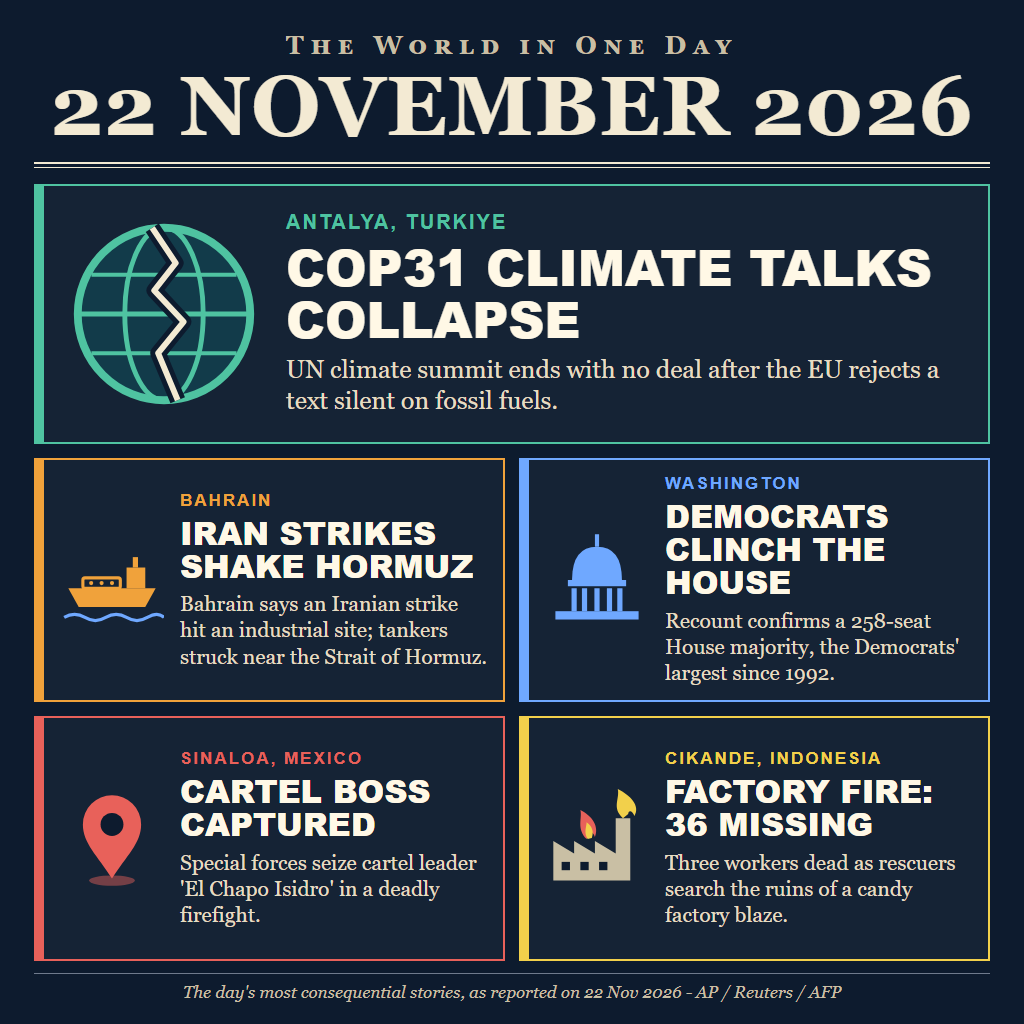
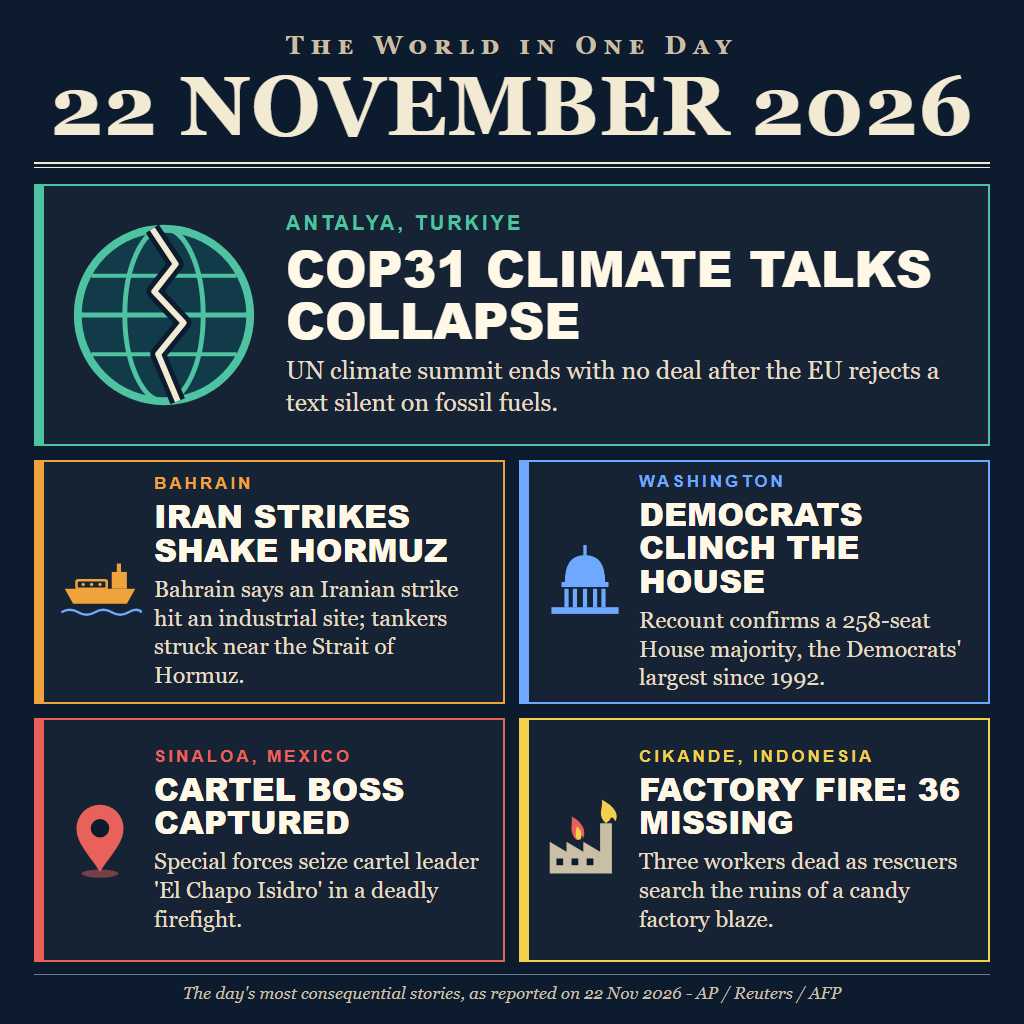
Add MIT license, legibility pass

diff --git a/image.html b/image.html
@@ -49,7 +49,7 @@
     font-family: Arial, Helvetica, sans-serif;
     font-weight: bold;
     color: var(--accent);
-    letter-spacing: 2px;
+    letter-spacing: 3px;
     text-transform: uppercase;
   }
   .headline {
@@ -59,7 +59,7 @@
     color: #fff8e6;
   }
   .line { line-height: 1.25; color: #e6dcc2; }
-  .lead { --accent: #4fc3a1; padding: 18px 22px; height: 262px; gap: 24px; }
+  .lead { --accent: #4fc3a1; padding: 18px 22px; height: 262px; flex-shrink: 0; gap: 24px; }
   .lead svg { flex: 0 0 196px; height: 196px; }
   .lead .label { font-size: 20px; }
   .lead .headline { font-size: 50px; margin: 6px 0 10px; }
@@ -72,11 +72,11 @@
     gap: 14px;
     margin-top: 14px;
   }
-  .small { padding: 14px 16px; gap: 16px; align-items: center; }
-  .small svg { flex: 0 0 104px; height: 104px; }
+  .small { padding: 10px 14px; gap: 12px; align-items: center; }
+  .small svg { flex: 0 0 84px; height: 84px; }
   .small .label { font-size: 17px; }
   .small .headline { font-size: 32px; margin: 5px 0 9px; }
-  .small .line { font-size: 21px; }
+  .small .line { font-size: 23px; }
   .iran  { --accent: #f0a23b; }
   .house { --accent: #6fa8ff; }
   .cartel{ --accent: #e8615a; }
